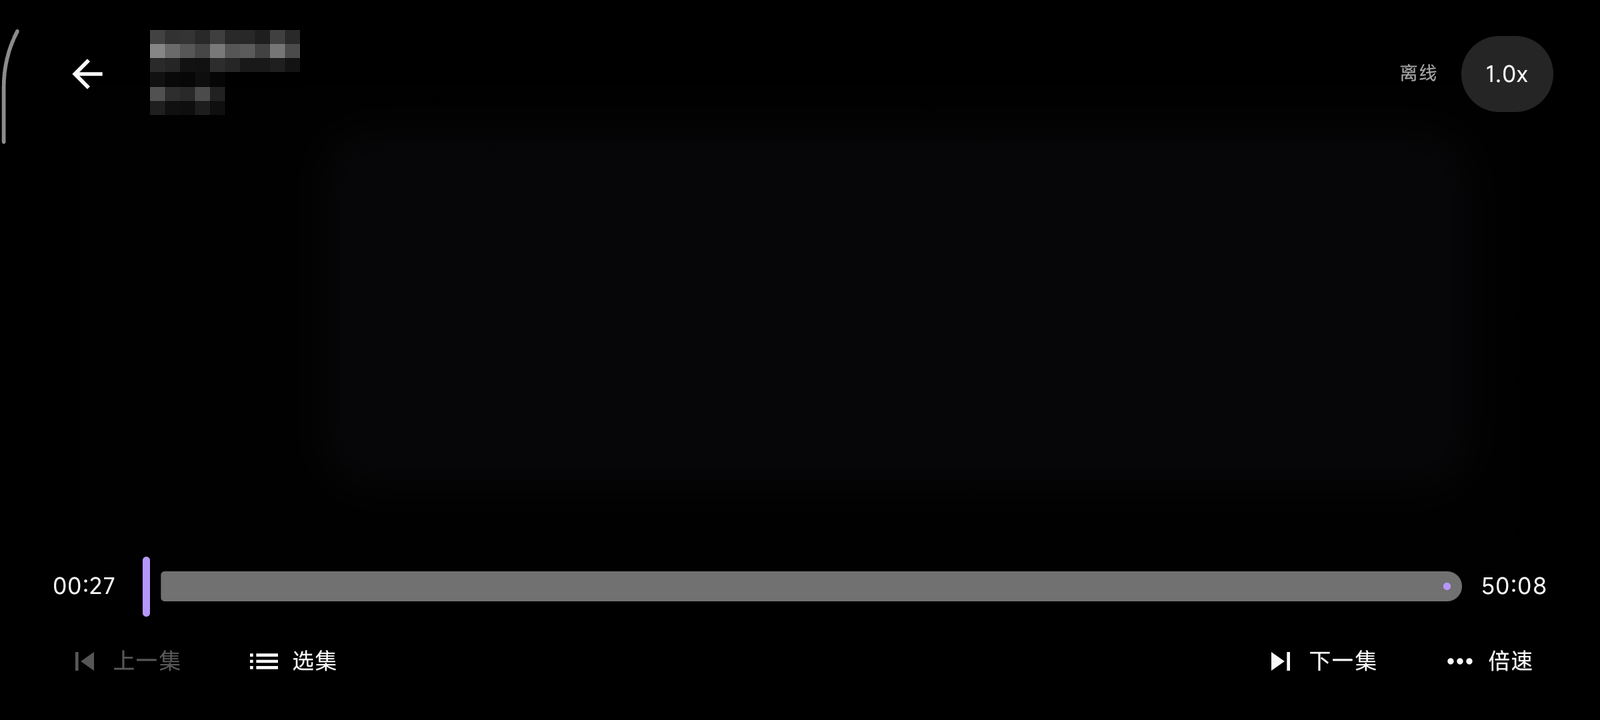
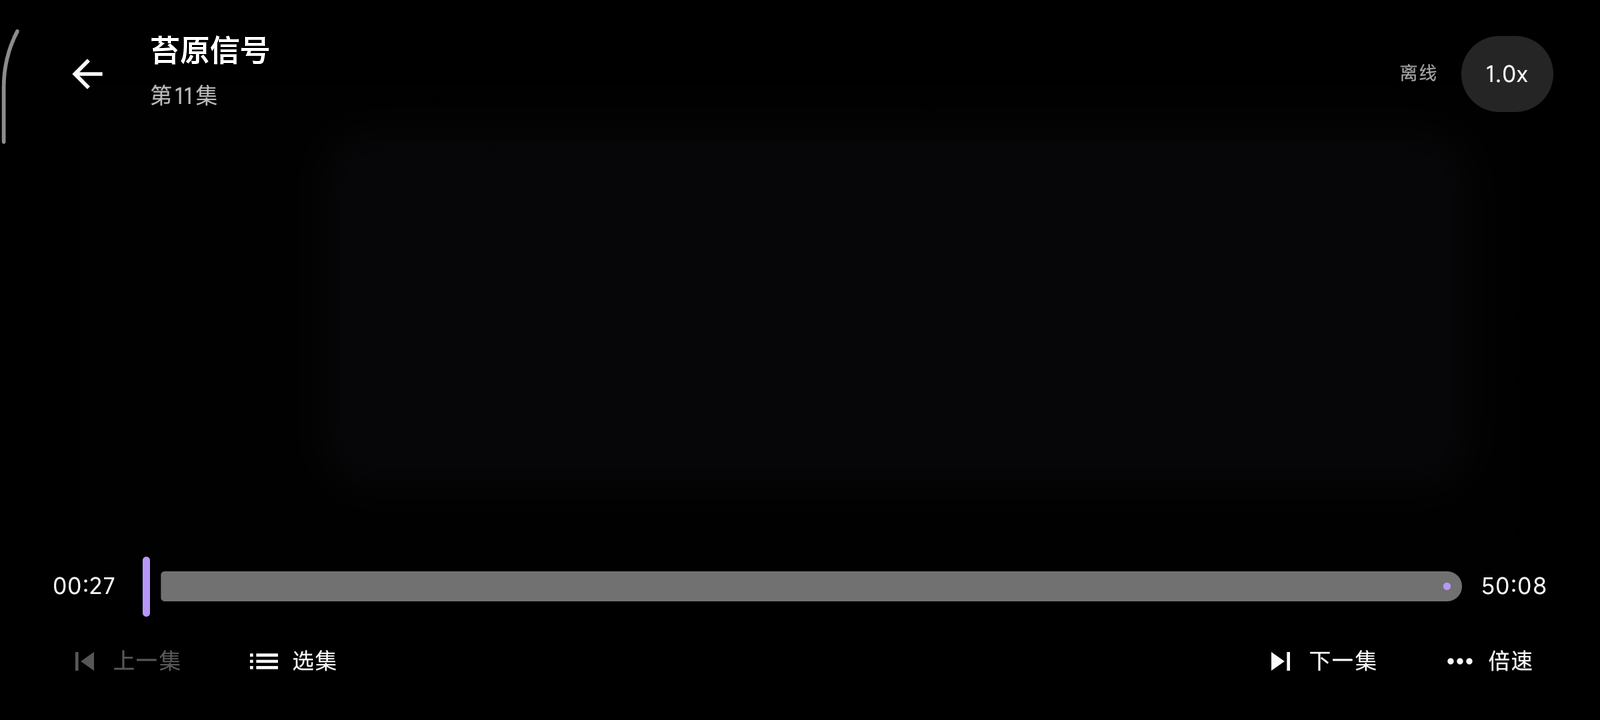
README 截图改用完全虚构的演示剧集，替换打码方案
虚构剧集：苔原信号、雾港第七夜、山海食肆、青锋剑歌、星海远征号、
雪线救援队、深谷回声——剧名经联网查重均不存在同名作品；
海报为程序生成的抽象图并带「虚构演示」角标；简介为原创文案。
手机上的真实数据与订阅源未做任何改动。

Changed region(s): [[0.0938, 0.0306, 0.1875, 0.1528]]

diff --git a/README.md b/README.md
@@ -28,7 +28,7 @@
 |:---:|:---:|:---:|
 | <img src="docs/screens/detail.png" width="200"> | <img src="docs/screens/downloads.png" width="200"> | <img src="docs/screens/player.png" width="340"> |
 
-> 截图中的海报与片名均已打码处理；本仓库不内置任何视频源，源列表初始为空。
+> 截图中的剧集、海报与简介均为**完全虚构的演示内容**（剧名经联网查重，不存在同名作品）；本仓库不内置任何视频源，源列表初始为空。
 
 ## 构建
 
